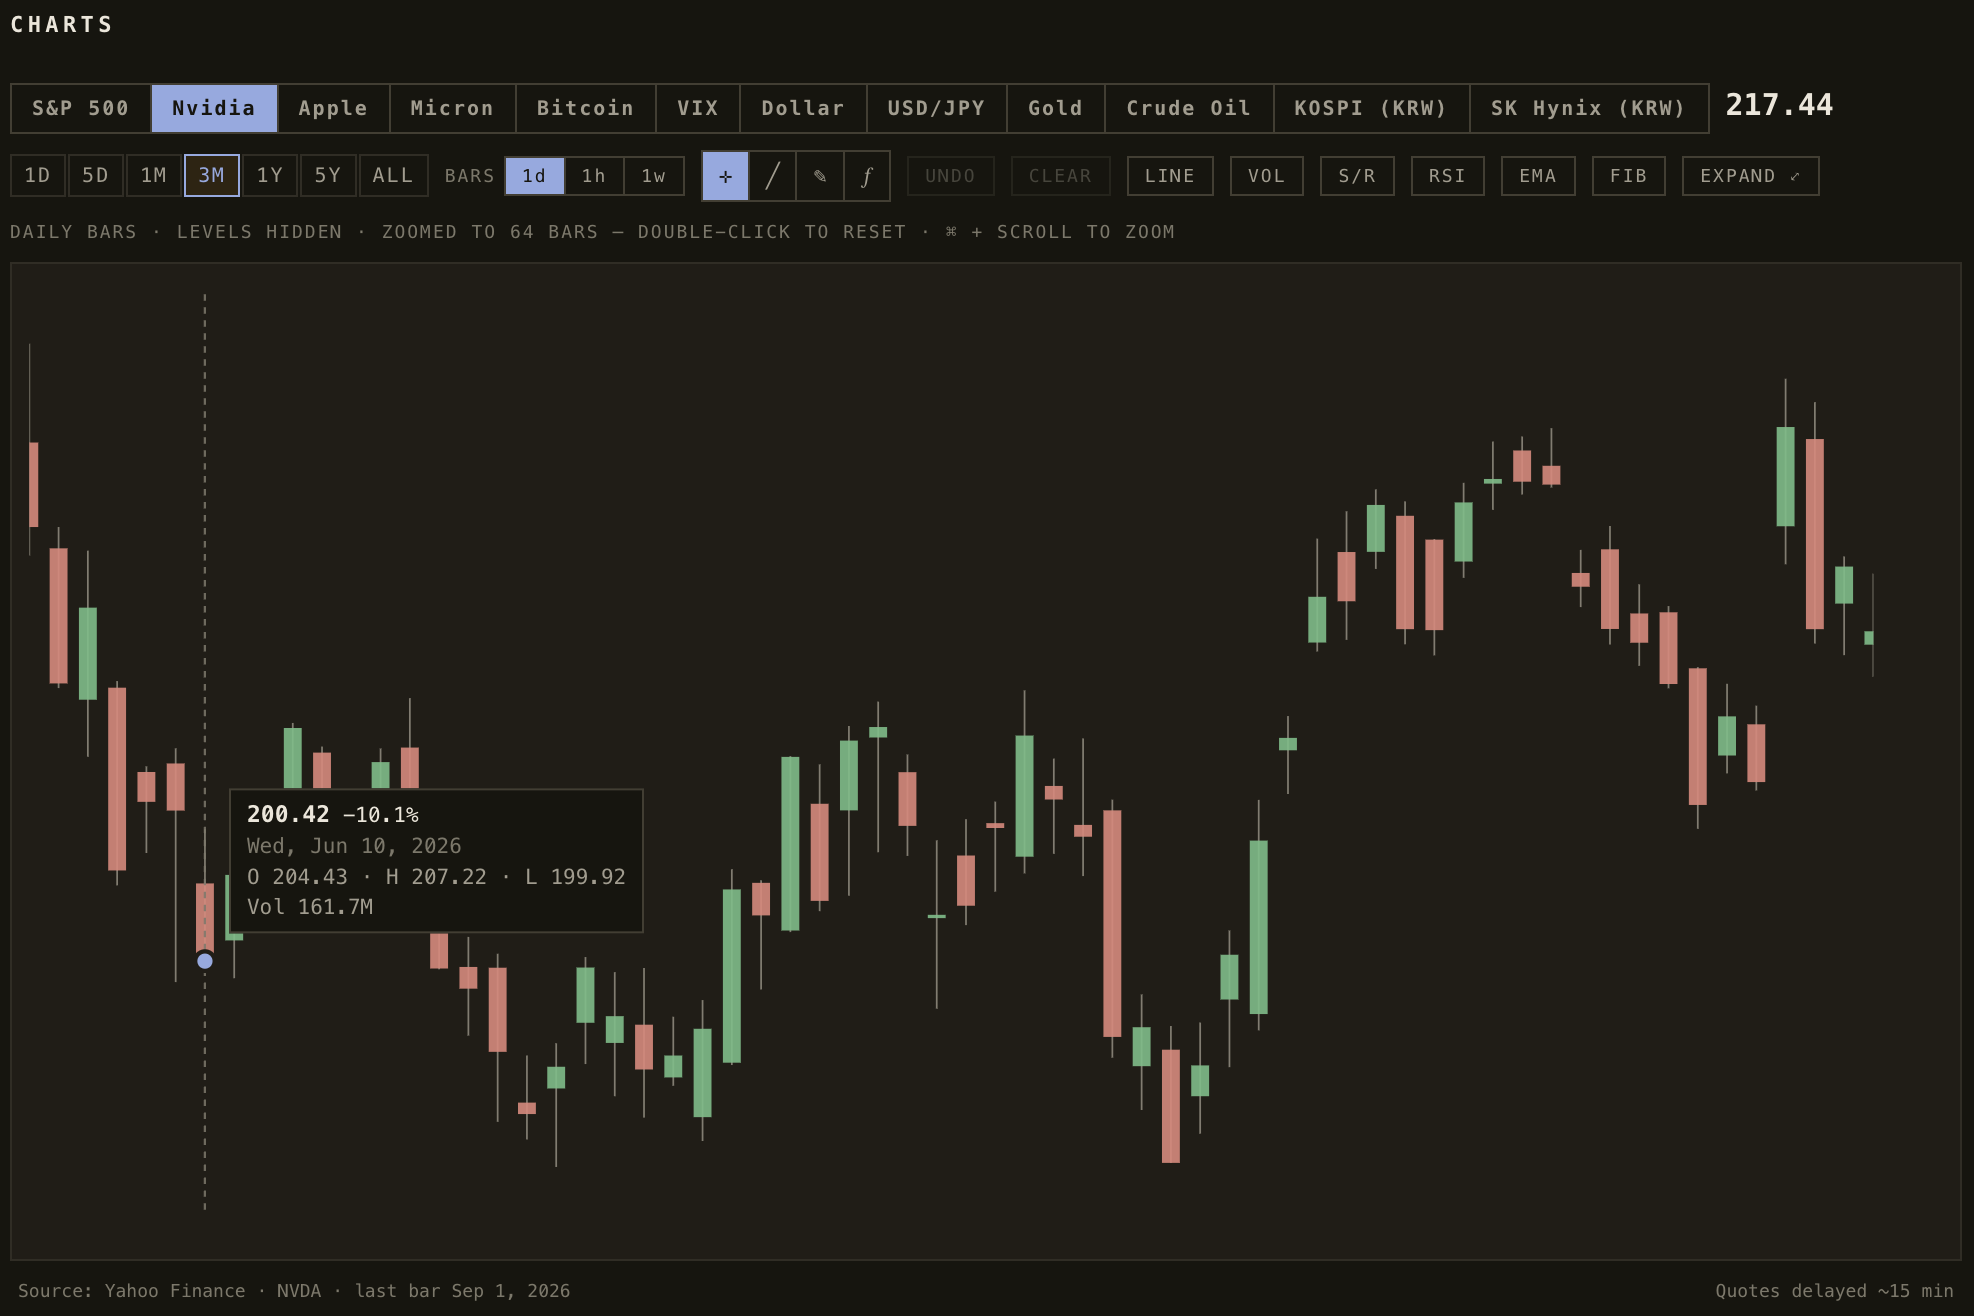
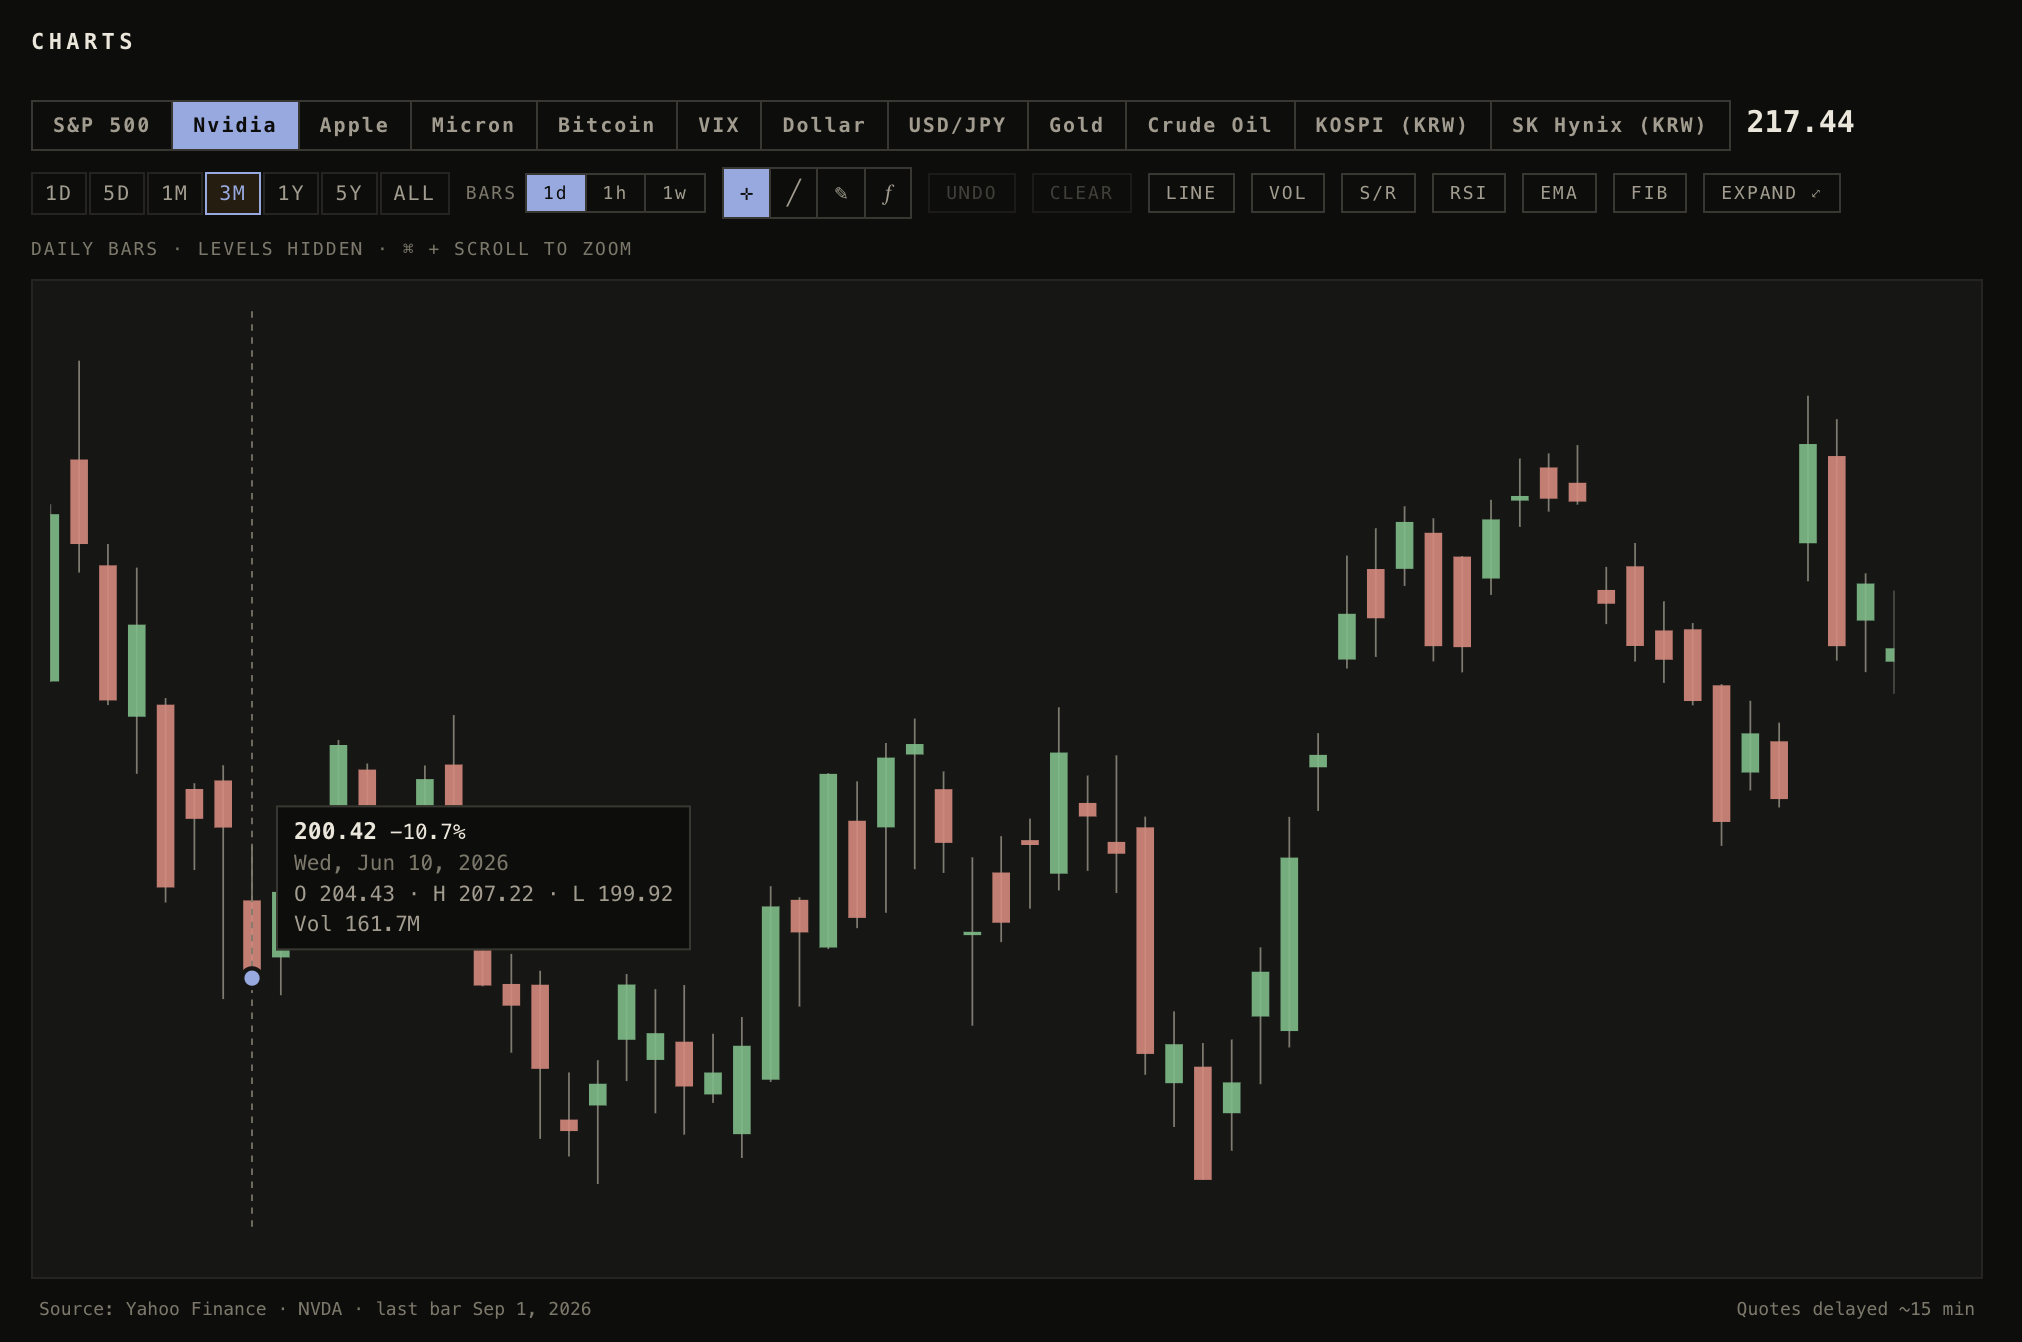
Refresh the Buy Side screenshots on the September 2 morning report
All four desktop shots retaken: the Today page, the charts panel, the
sector rotation table and the earnings timeline. The night shot of the
Today page comes out, leaving the section on the AM state alone.

The chart's alt now mentions the Yahoo Finance footer and the fifteen
minute delay, which the paragraph above it talks about.

Claude-Session: https://claude.ai/code/session_01K7nG38w3Ra8gD9mgbGiumu

diff --git a/src/data/case-studies.ts b/src/data/case-studies.ts
@@ -487,13 +487,7 @@ export const caseStudies: Record<string, CaseStudy> = {
       {
         type: "image",
         src: "/projects/buy-side-site-today.png",
-        alt: "The Today page: a live ticker strip under the nav, then the morning report's headline on a global bond selloff, the paragraph that argues it, a link out to the full six minute read, and the charts panel opening underneath",
-      },
-
-      {
-        type: "image",
-        src: "/projects/buy-side-site-today-night.png",
-        alt: "The same page with the toggle on PM: the night report of Tuesday, September 1, filed at 8:18 PM ET, its headline on US strikes on Iran pushing oil to a six-week high and cracking the stock market, the paragraph tracing the move through the discount rate, a link out to the eight minute read, and the charts panel below with S&P 500 selected on three month daily bars",
+        alt: "The Today page with the toggle on AM: a live ticker strip under the nav, then the morning report of Wednesday, September 2, filed at 8:04 AM ET, its headline on a government bond selloff turning global as Japan's 10-year hits a level unseen since 1996, the paragraph that argues it, a link out to the full seven minute read, and the charts panel opening underneath",
       },
       // reduce information overload and cognitive fatigue for investors by providing concise insights and a quick read
 
@@ -510,7 +504,7 @@ export const caseStudies: Record<string, CaseStudy> = {
       // context switching - constantly jumping between multiple disconnected browser tabs and apps to gather information, which can be mentally exhausting and lead to cognitive fatigue
       {
         type: "text",
-        text: "I designed Buy Side to reduce cognitive fatigue by using AI to remove the manual work of navigating sources and collecting information. AI curates the information and outputs a dense but concise report that takes ~6 minutes to read, and it writes pretty good headlines."
+        text: "I designed Buy Side to reduce cognitive fatigue by using AI to remove the manual work of navigating sources and collecting information. AI curates the information and outputs a dense but concise report that takes ~6 minutes to read."
       },
 
                   { type: "heading", text: "AM/PM toggle" },
@@ -531,7 +525,7 @@ export const caseStudies: Record<string, CaseStudy> = {
         type: "image",
         src: "/projects/buy-side-chart.png",
         width: 620,
-        alt: "The charts panel: a row of tickers with Nvidia selected, range and bar controls under it, and a three month candlestick chart with a hover card on the June 10 bar showing its open, high, low, and volume",
+        alt: "The charts panel: a row of tickers with Nvidia selected, range and bar controls under it, and a three month candlestick chart with a hover card on the June 10 bar showing its open, high, low, and volume, over a footer crediting Yahoo Finance and noting quotes are delayed about fifteen minutes",
       },
 
 
